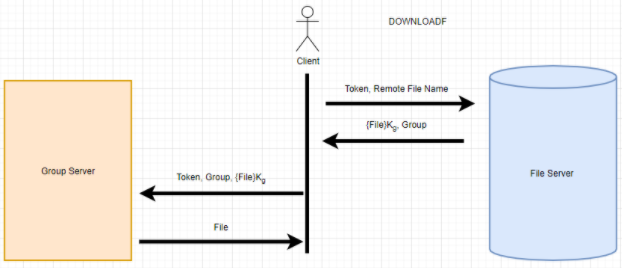
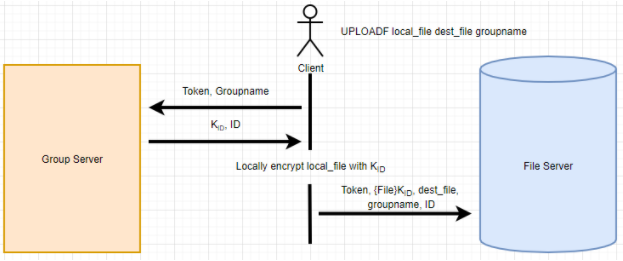
Updated T6

diff --git a/doc/phase4-writeup.htm b/doc/phase4-writeup.htm
@@ -95,11 +95,11 @@ your group has decided to use to address threats T5–T7.</p>
 <!-- BEGIN CHANGES HERE -->
 
 <p>
-  T6 is the threat of untrusted file servers leaking files to unauthorized principals. We must assume that there is no “out of bounds” communications between group and file servers as there is no way for the group server to know about all file servers that could exist within the system. 
+  T6 is the threat of untrusted file servers leaking files to unauthorized principals. We must assume that there is no “out of bounds” communications between group and file servers as there is no way for the group server to know about all file servers that could exist within the system.  
 </p>
 
 <p>
-  The approach we decided to go with is a mediated protocol. T6.1 will detail how DOWNLOADF will work in this new system and T6.2 will detail how UPLOADF will work with this new system. This entire system will be using a private key/secret that is generated by the group server when a group is made. The group server should not send this key/secret to anyone and any utilization of the key/secret will be done within the Group Server itself. 
+  The approach we decided to go with is a mediated protocol. T6.1 will detail how UPLOADF will work in this new system and T6.2 will detail how DOWNLOADF will work with this new system. Each group will be initialized with a private key/secret. This key/secret will only change when a user is removed from the group. However, the group will store all previous keys with a unique identifier for each key. As well as the current key/identifier that should be used to encrypt new files. 
 </p>
 
 <figure>
@@ -108,7 +108,7 @@ your group has decided to use to address threats T5–T7.</p>
 </figure>
 
 <p>
-  T6.1 details DOWNLOADF in a mediated protocol. The Client will first contact the File Server, who will have already been authenticated and authorized by our implementation to mitigate T3, and ask for the encrypted file associated with Remote File Name and then the Group. After receiving a response, the client will then talk to the Group Server and send their token, Group Name for the file, and the encrypted file. The group server will then return the unencrypted file to the client. 
+  The user will request the most recent token for the given group from the group server. The group server will return the most recent token and the unique identifier associated with that key. The user will locally encrypt the given file with K<sub>ID</sub> and then send it to the File server along with their token, the dest_file (or file name/path on the server), the group that the file is associated with, and the key’s unique identifier to the File Server where the all the information will be stored as expected/normal. Should the File Server leak any files uploaded to it along with any information associated with it, there would need to be a leak within the group server or a client who is/was in the group in order for any meaningful information to be exposed. 
 </p>
 
 <figure>
@@ -117,11 +117,11 @@ your group has decided to use to address threats T5–T7.</p>
 </figure>
 
 <p>
-  T6.2 details UPLOADF in a mediated protocol as well. The first thing the client does is send it’s token, the Group Name, and the file to the Group Server to get an encrypted File with the given group’s key. Then the client will send it’s token, the group name, the encrypted file, and the remote path to the File Server for upload. 
+  The user will first communicate with the File server in order to get the encrypted file, ID, and group the encrypted file is associated with. The client will hold onto the encrypted file and send along their token, the group, and ID returned from the File Server in order to get the group key associated with that unique identifier. Then the client will locally decrypt the file into the given dest_file (or local name/path on the client’s machine). 
 </p>
 
 <p>
-  This mechanism does not prevent file leakage from File Servers. However, it ensures that any files that do leak from the file servers are in a state where it is not possible to extract information on the leaked file. The reasoning for keeping the encryption/decryption within the Group Server as opposed to it being done client side is so that the client will not be able to keep the key/secret for a group to be utilized at a later date. The key/secret utilized will likely be an AES-256 key utilizing CBC for encryption/decryption.
+  This system works and is secure because it utilizes lazy revocation. Lazy revocation states that if a user was a bad actor, they could leak anything that they had access to and we cannot prevent that from happening other than removing the user from the group. Whenever a user is removed from a group, a new key and unique identifier are generated and will be used for all future encryptions on new files or until a user is removed from the group again. The downside to this system is that each group needs to store every key that has been generated since the existence of the group to ensure that any file uploaded to the file server at any point can be decrypted at any point in the future.
 </p>
 
 <!-- END CHANGES HERE -->
